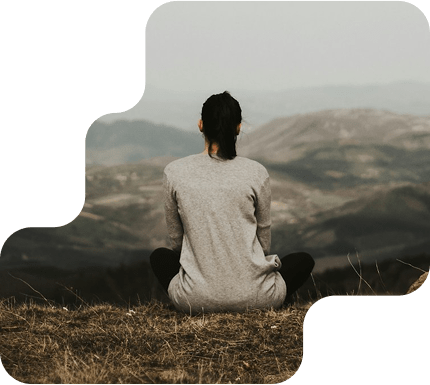
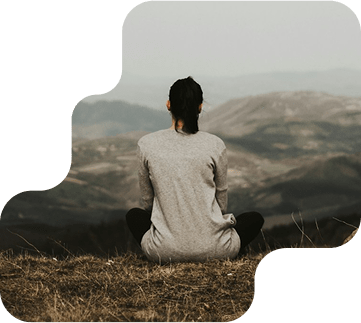
Fix font connection. Add markup and styles to hero section. Add border-radius to mobile menu.

diff --git a/src/components/HeroSection/HeroSection.module.css b/src/components/HeroSection/HeroSection.module.css
@@ -1,0 +1,158 @@
+.heroSection {
+  padding-top: 16px;
+  background-image: url(/images/home/hero/mob-hero.png);
+  background-position: 0 16px;
+  background-repeat: no-repeat;
+}
+
+.heroTitleLinksContainer {
+  margin-top: 340px;
+}
+
+.heroTitle {
+  font-weight: 700;
+  font-size: 39px;
+  line-height: 1.5;
+  color: var(--link-color);
+  margin-bottom: 30px;
+  max-width: 372px;
+}
+
+.heroTitle span {
+  font-family: var(--secondary-font-family);
+}
+
+.heroLinksList {
+  display: flex;
+  flex-direction: column;
+  gap: 24px;
+}
+
+.heroArticleLink,
+.heroRegisterLink {
+  display: flex;
+  align-items: center;
+  justify-content: center;
+  font-weight: 700;
+  font-size: 18px;
+  border-radius: 64px;
+  width: 100%;
+  max-width: 360px;
+  height: 58px;
+  transition: all .3s ease;
+}
+
+.heroArticleLink:hover,
+.heroArticleLink:focus {
+  background-color: var(--button-bg-main-hover);
+}
+
+.heroArticleLink {
+  color: #f7fffb;
+  border-color: transparent;
+  background-color: var(--button-border-main);
+  border: 1px solid transparent;
+}
+
+.heroRegisterLink {
+  color: #374f42;
+  border: 1px solid var(--link-color);
+}
+
+.heroRegisterLink:hover,
+.heroRegisterLink:focus {
+  color: var(--button-color-main);
+  background-color: var(--link-color);
+}
+
+@media screen and (max-width:393px) {
+  .heroSection {
+    background-size: contain;
+  }
+}
+
+@media screen and (min-width:393px) and (min-resolution: 192dpi) {
+  .heroSection {
+    background-image: url(/images/home/hero/mob-hero@2x.png);
+    background-size: 361px 322px;
+  }
+}
+
+@media screen and (min-width: 768px) {
+  .heroSection {
+    padding-top: 22px;
+    background-image: url(/images/home/hero/tab-hero.png);
+    background-position: right 0 top 22px;
+    background-size: 430px 385px;
+  }
+
+  @media screen and (min-resolution: 192dpi) {
+    .heroSection {
+      background-image: url(/images/home/hero/tab-hero@2x.png);
+      background-size: 430px 384px;
+    }
+  }
+
+  .heroTitleLinksContainer {
+    display: flex;
+    flex-direction: column;
+    justify-content: space-between;
+    margin-top: 0;
+    min-height: 388px;
+  }
+
+  .heroTitle {
+    font-size: 40px;
+    margin-bottom: 0;
+  }
+
+  .heroLinksList {
+    max-width: 250px;
+  }
+}
+
+
+@media screen and (min-width:1440px) {
+  .heroSection {
+    padding-top: 88px;
+    background-image: url(/images/home/hero/desk-hero.png);
+    background-size: 805px 560px;
+    background-position: right 0 top 88px;
+
+  }
+
+  @media screen and (min-resolution: 192dpi) {
+    .heroSection {
+      background-image: url(/images/home/hero/desk-hero@2x.png);
+      background-size: 805px 560px;
+    }
+  }
+
+  .heroTitle {
+    max-width: 600px;
+    font-weight: 800;
+    font-size: 92px;
+    line-height: 1;
+    letter-spacing: -0.02em;
+  }
+
+  .heroTitleLinksContainer {
+    justify-content: start;
+    gap: 56px;
+    min-height: 560px;
+  }
+
+  .heroLinksList {
+    flex-direction: row;
+  }
+
+  .heroArticleLink,
+  .heroRegisterLink {
+    min-width: 184px;
+  }
+
+  .heroImage {
+    width: 100%;
+    max-width: 806px;
+  }
+}

diff --git a/src/components/HeroSection/HeroSection.jsx b/src/components/HeroSection/HeroSection.jsx
@@ -1,13 +1,34 @@
+import { useSelector } from 'react-redux';
 import s from './HeroSection.module.css';
-
 import { Link } from 'react-router-dom';
+import { selectIsLoggedIn } from '../../redux/auth/selectors';
+import clsx from 'clsx';
 
 const HeroSection = () => {
-  const isLoggedIn = false;
+  const isLoggedIn = useSelector(selectIsLoggedIn);
+
   return (
-    <section>
-      <Link to="/articles">Go to Articles</Link>
-      {!isLoggedIn && <Link to="/register">Register</Link>}
+    <section className={clsx(s.heroSection, 'section')}>
+      <div className={clsx(s.heroTitleLinksContainer)}>
+        <h1 className={clsx(s.heroTitle)}>
+          Find your <span>harmony</span> in community
+        </h1>
+
+        <ul className={s.heroLinksList}>
+          <li>
+            <a href="#popular-articles" className={clsx(s.heroArticleLink)}>
+              Go to Articles
+            </a>
+          </li>
+          {!isLoggedIn && (
+            <li>
+              <Link to="/register" className={clsx(s.heroRegisterLink)}>
+                Register
+              </Link>
+            </li>
+          )}
+        </ul>
+      </div>
     </section>
   );
 };

diff --git a/src/index.css b/src/index.css
@@ -24,7 +24,7 @@
 
 @font-face {
   font-display: swap;
-  font-family: 'Merienda';
+  font-family: 'Manrope';
   font-style: normal;
   font-weight: 800;
   src: url('../fonts/manrope-v19-latin-800.woff2') format('woff2');

diff --git a/src/components/Footer/Footer.module.css b/src/components/Footer/Footer.module.css
@@ -36,7 +36,7 @@
   left: 0;
   bottom: -4px;
   width: 0;
-  height: 1px;
+  height: 2px;
   background-color: var(--link-color);
   transition: width .3s ease;
 }

diff --git a/src/components/MobileMenu/MobileMenu.module.css b/src/components/MobileMenu/MobileMenu.module.css
@@ -28,6 +28,7 @@
   max-width: 393px;
   background-color: var(--card-bg);
   padding: 24px 16px;
+  border-radius: 32px;
 }
 
 .logoCloseButtonContainer {
